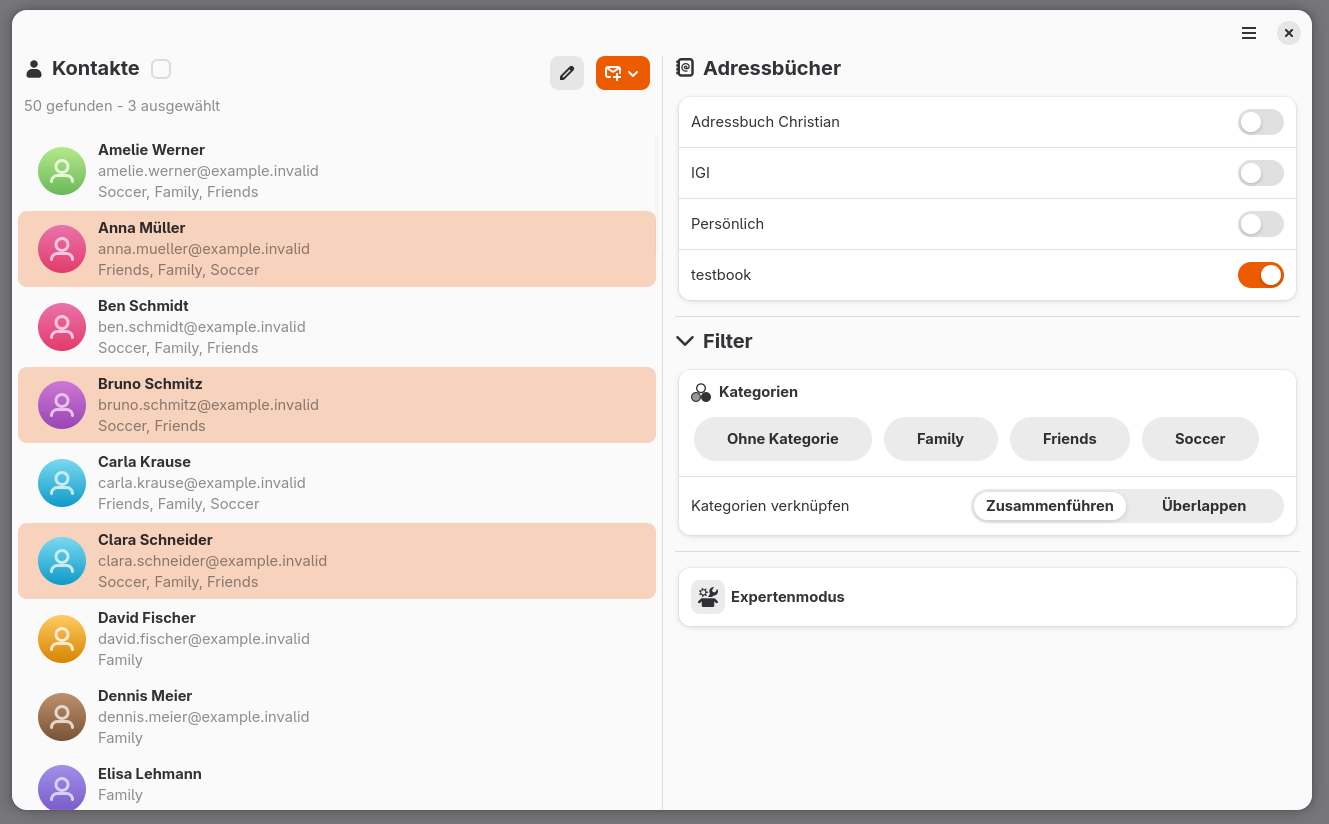
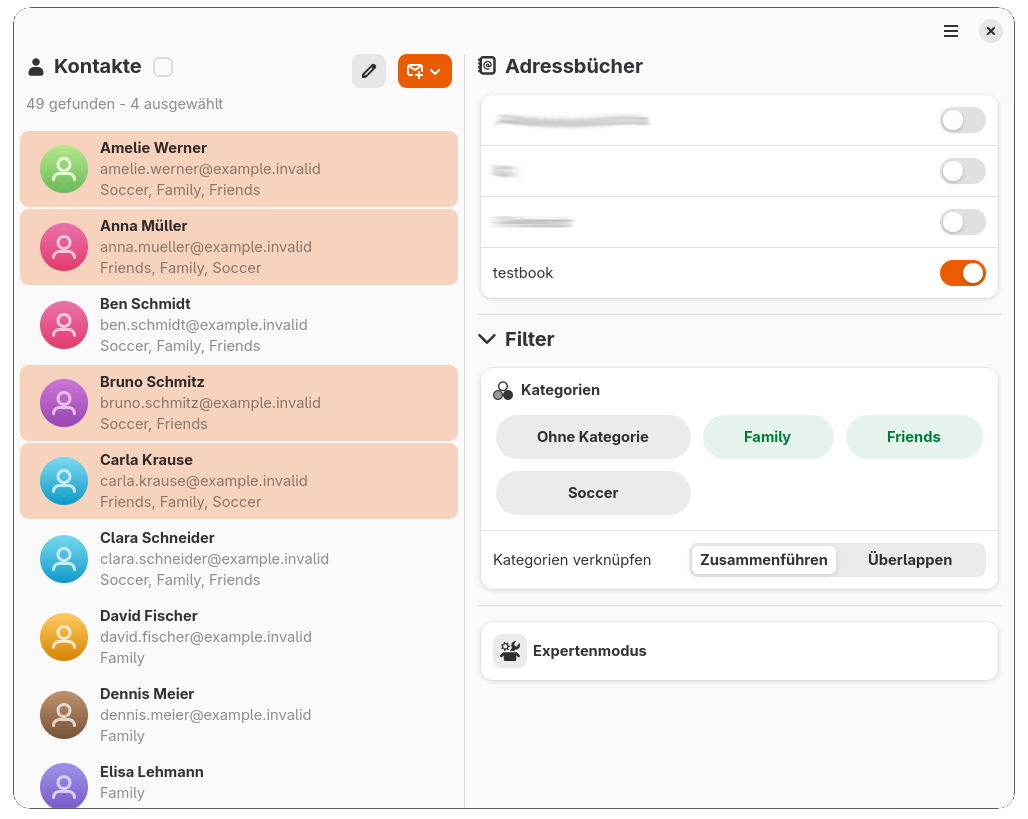
buttons

diff --git a/categories_frontend.py b/categories_frontend.py
@@ -407,7 +407,7 @@ class KontaktfilterWindow(Adw.ApplicationWindow):
         verknuepfung_box.append(verknuepfung_titel)
 
         self.verknuepfung_gruppe = Adw.ToggleGroup.new()
-        self.verknuepfung_gruppe.add_css_class("round")
+        self.verknuepfung_gruppe.add_css_class("boxed-list")
         self.verknuepfung_gruppe.set_homogeneous(True)
 
         self.or_toggle = Adw.Toggle.new()
